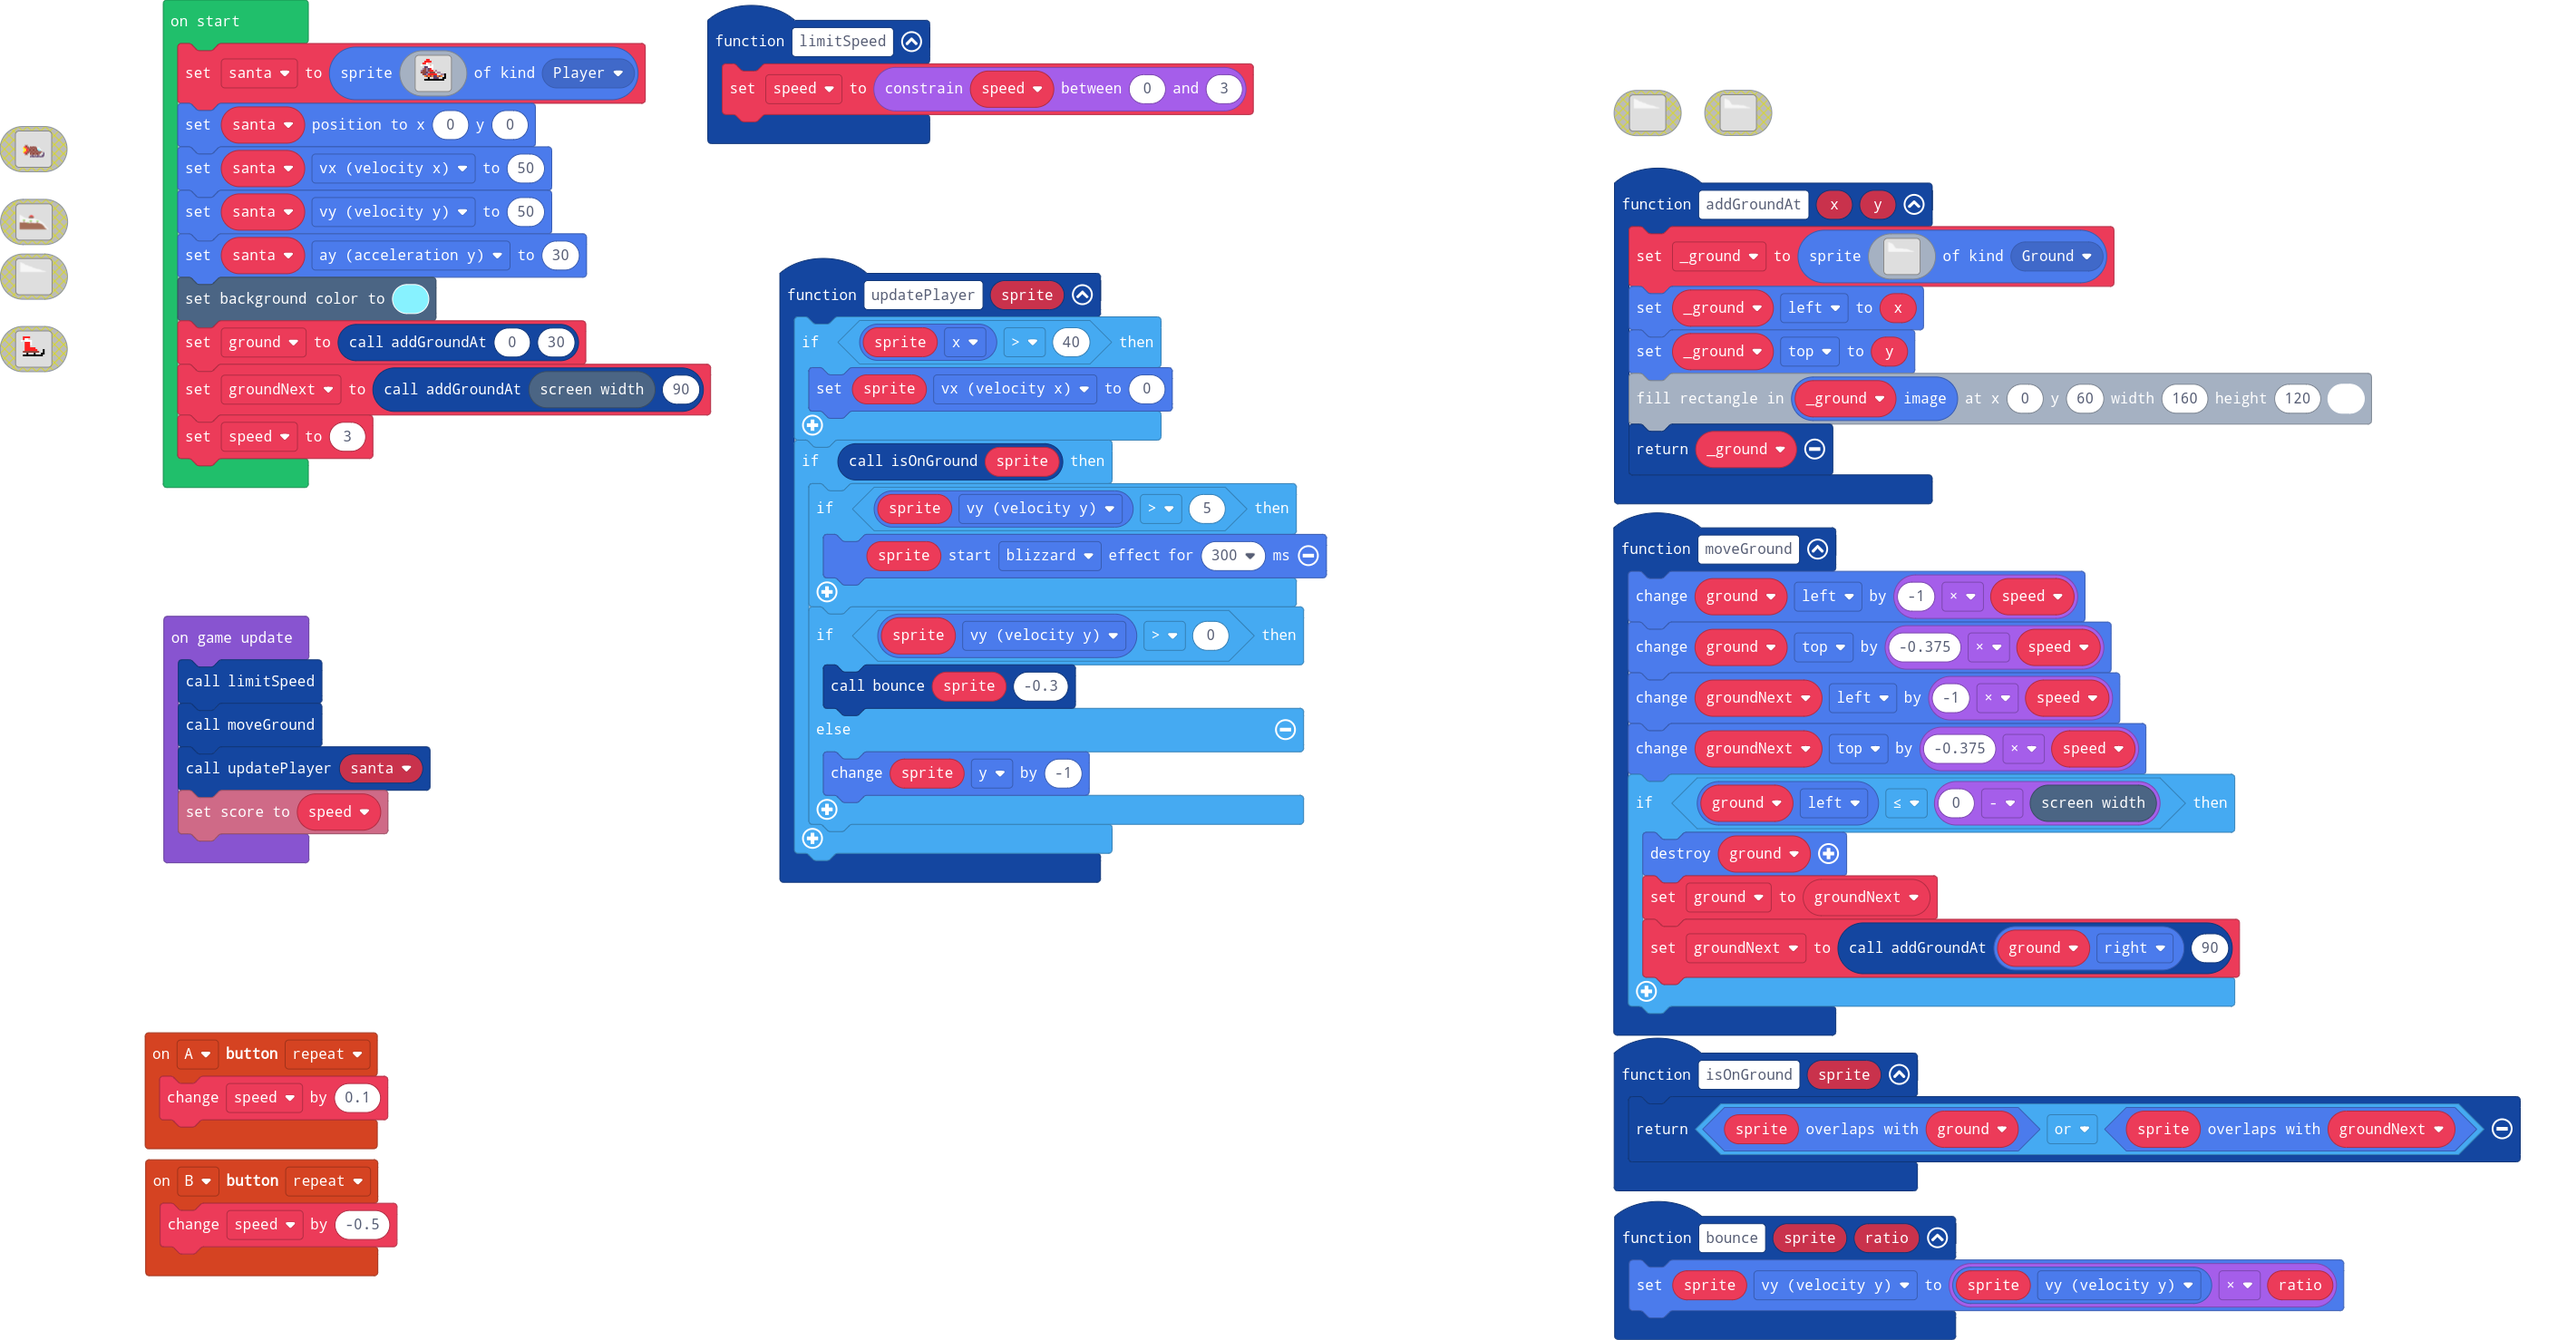
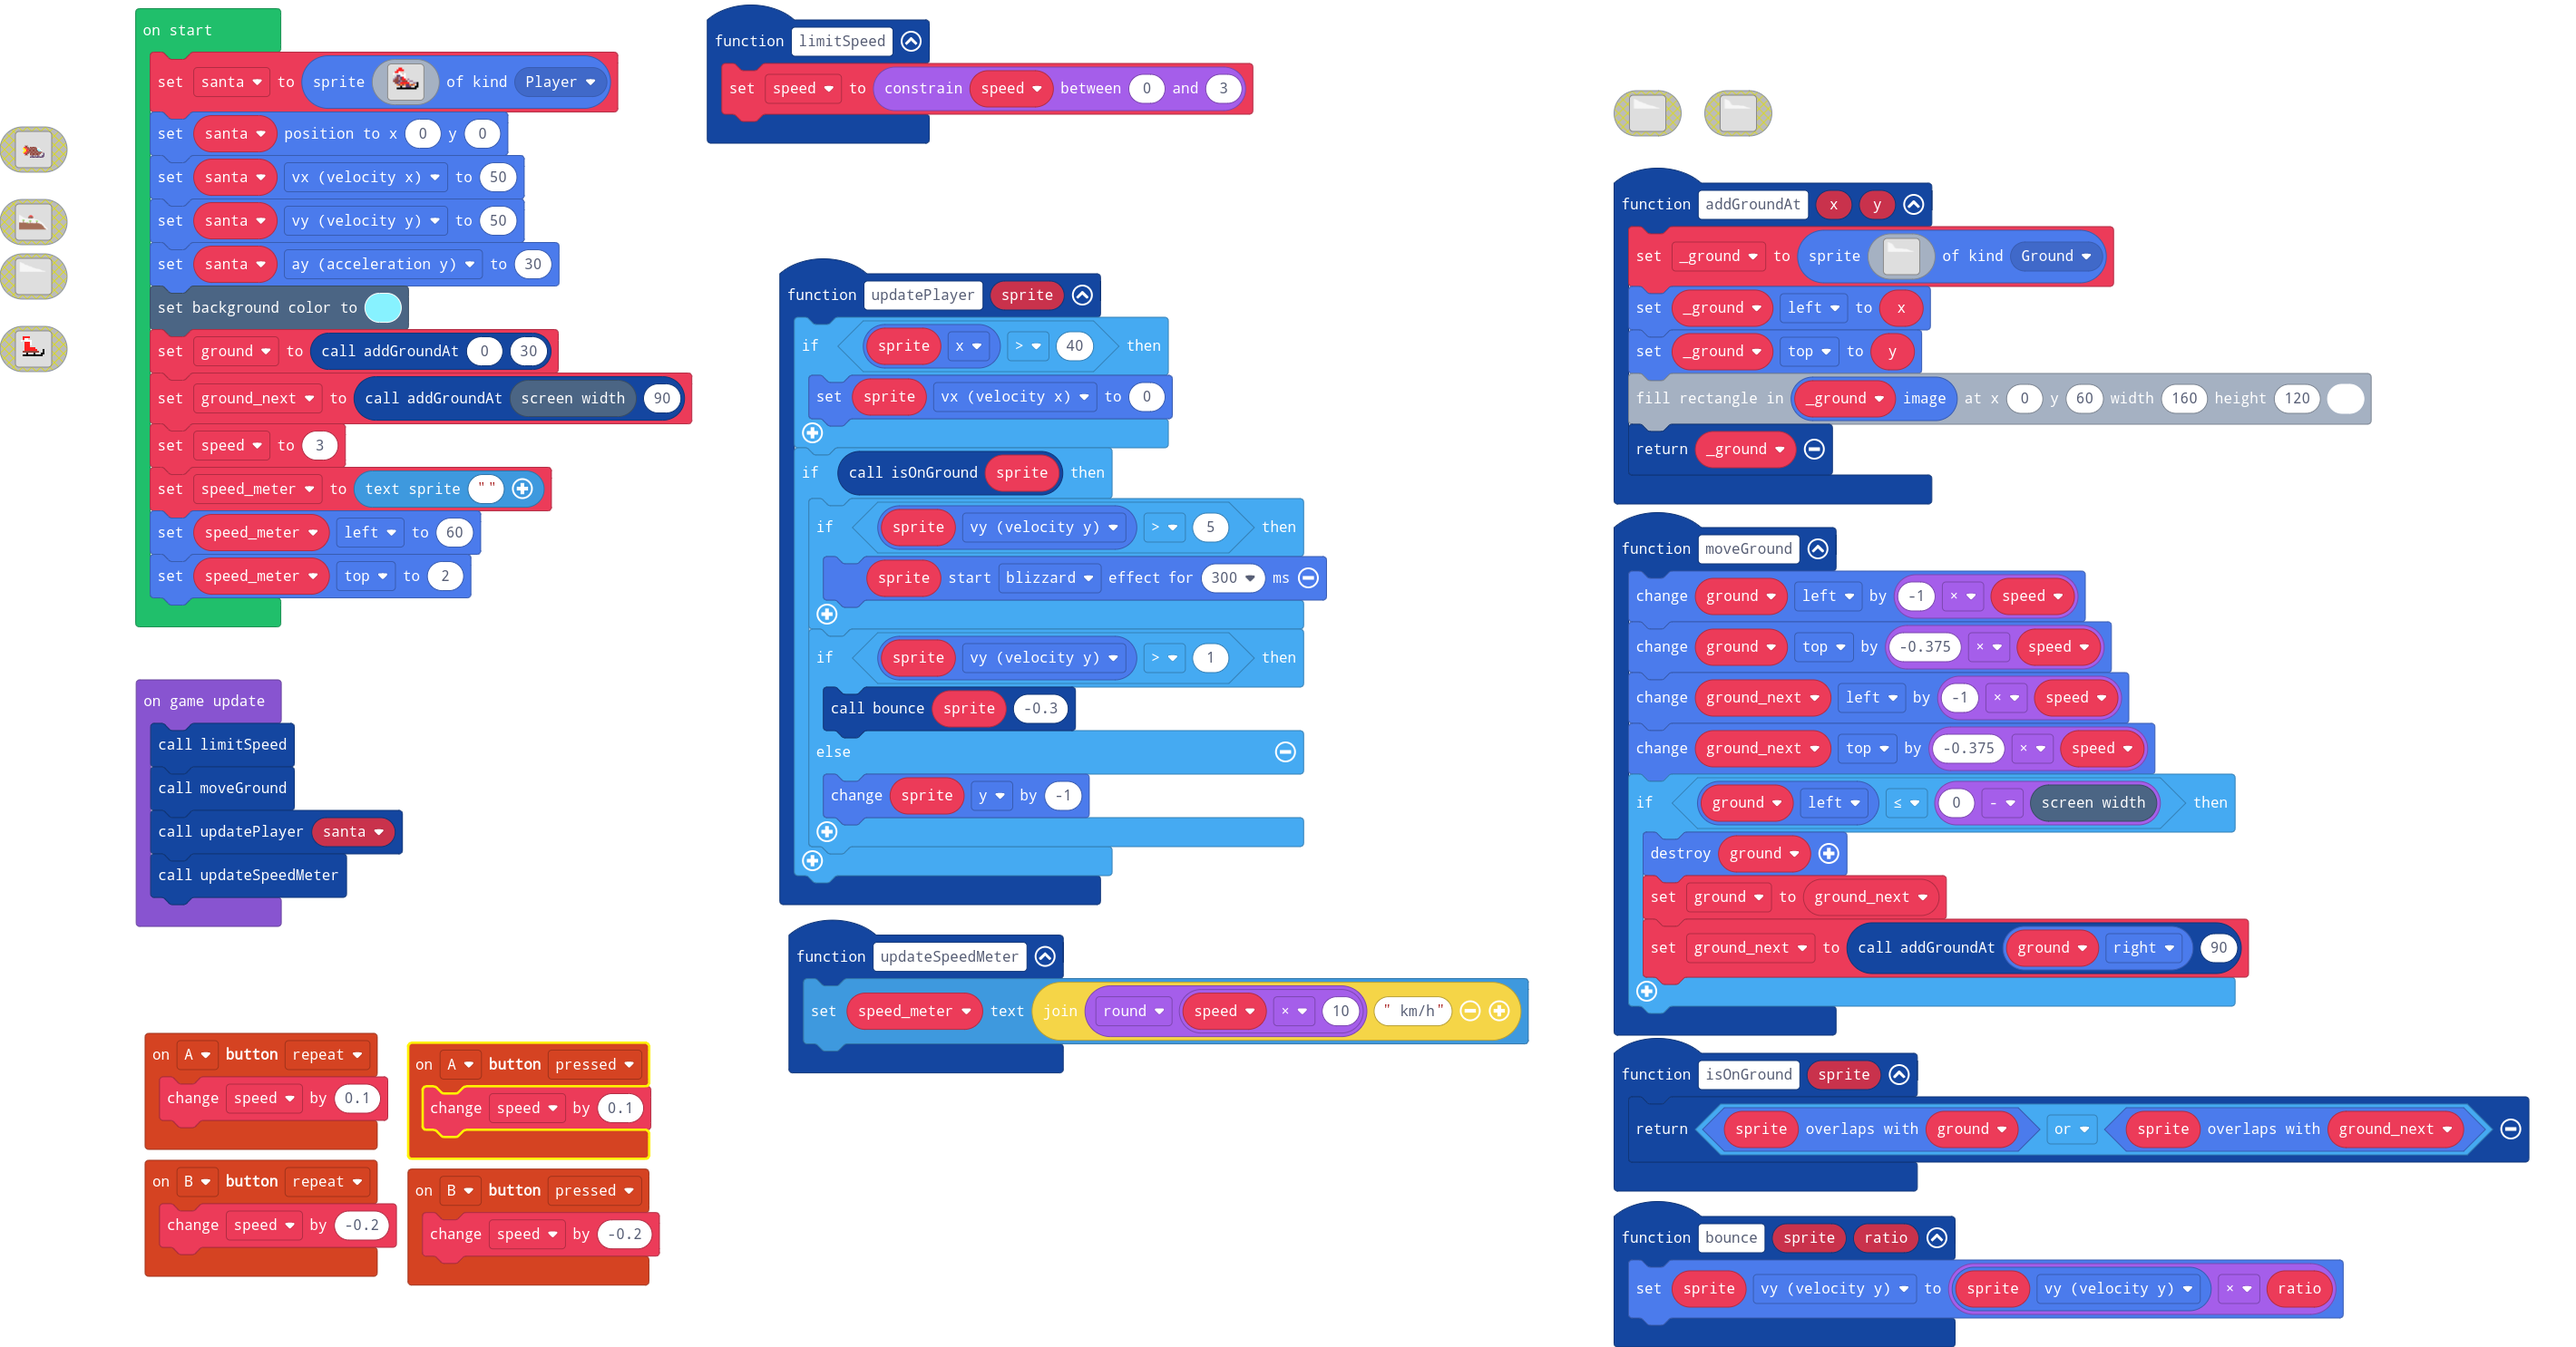
speedmeter

Changed region(s): [[0.0, 0.0, 0.5906, 0.8092], [0.6217, 0.0622, 0.9947, 1.0], [0.0622, 0.747, 0.2798, 0.9648]]

diff --git a/main.ts b/main.ts
@@ -197,13 +197,22 @@ function updatePlayer (sprite: Sprite) {
         if (sprite.vy > 5) {
             sprite.startEffect(effects.blizzard, 300)
         }
-        if (sprite.vy > 0) {
+        if (sprite.vy > 1) {
             bounce(sprite, -0.3)
         } else {
             sprite.y += -1
         }
     }
 }
+function updateSpeedMeter () {
+    speed_meter.setText("" + Math.round(speed * 10) + " km/h")
+}
+controller.B.onEvent(ControllerButtonEvent.Pressed, function () {
+    speed += -0.2
+})
+controller.A.onEvent(ControllerButtonEvent.Pressed, function () {
+    speed += 0.1
+})
 function limitSpeed () {
     speed = Math.constrain(speed, 0, 3)
 }
@@ -211,28 +220,29 @@ function bounce (sprite: Sprite, ratio: number) {
     sprite.vy = sprite.vy * ratio
 }
 function isOnGround (sprite: Sprite) {
-    return sprite.overlapsWith(ground) || sprite.overlapsWith(groundNext)
+    return sprite.overlapsWith(ground) || sprite.overlapsWith(ground_next)
 }
 controller.B.onEvent(ControllerButtonEvent.Repeated, function () {
-    speed += -0.5
+    speed += -0.2
 })
 function moveGround () {
     ground.left += -1 * speed
     ground.top += -0.375 * speed
-    groundNext.left += -1 * speed
-    groundNext.top += -0.375 * speed
+    ground_next.left += -1 * speed
+    ground_next.top += -0.375 * speed
     if (ground.left <= 0 - scene.screenWidth()) {
         ground.destroy()
-        ground = groundNext
-        groundNext = addGroundAt(ground.right, 90)
+        ground = ground_next
+        ground_next = addGroundAt(ground.right, 90)
     }
 }
 controller.A.onEvent(ControllerButtonEvent.Repeated, function () {
     speed += 0.1
 })
 let _ground: Sprite = null
+let speed_meter: TextSprite = null
 let speed = 0
-let groundNext: Sprite = null
+let ground_next: Sprite = null
 let ground: Sprite = null
 let santa = sprites.create(img`
     . . . . 2 2 . . . . . . . . . . 
@@ -258,11 +268,14 @@ santa.vy = 50
 santa.ay = 30
 scene.setBackgroundColor(9)
 ground = addGroundAt(0, 30)
-groundNext = addGroundAt(scene.screenWidth(), 90)
+ground_next = addGroundAt(scene.screenWidth(), 90)
 speed = 3
+speed_meter = textsprite.create("")
+speed_meter.left = 60
+speed_meter.top = 2
 game.onUpdate(function () {
     limitSpeed()
     moveGround()
     updatePlayer(santa)
-    info.setScore(speed)
+    updateSpeedMeter()
 })
